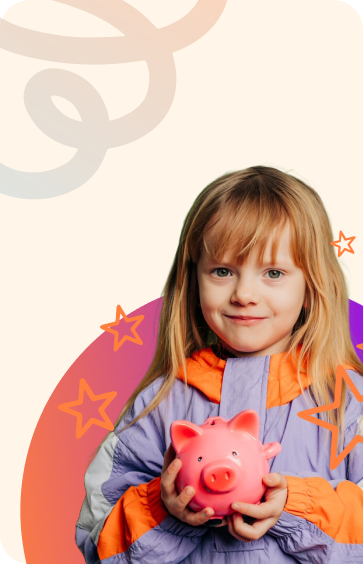
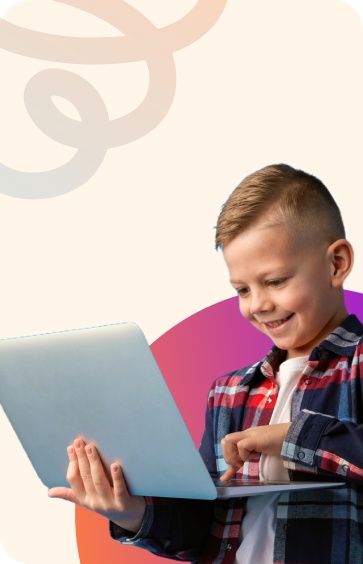
Added few changes

diff --git a/src/components/home-page/HeroSection.js b/src/components/home-page/HeroSection.js
@@ -2,10 +2,8 @@ import Image from "next/image";
 import HeroCreatorImage from "@/assets/images/Hero_Banner.png";
 import HeroCreatorImage1 from "@/assets/images/banner1.png";
 import HeroCreatorImage2 from "@/assets/images/banner2.png";
-import HeroCreatorImage3 from "@/assets/images/banner3.png";
 import HeroCreatorImage1Mob from "@/assets/images/banner1Mob.png";
 import HeroCreatorImage2Mob from "@/assets/images/banner2Mob.png";
-import HeroCreatorImage3Mob from "@/assets/images/banner3Mob.png";
 import HeroCreatorImageMob from "@/assets/images/Hero_Banner_mob.png";
 import HeroCalenderImage from "@/assets/images/calender_frame.png";
 import HeroCurriculumImage from "@/assets/images/medal.png";
@@ -15,8 +13,8 @@ import Calender from "@/assets/images/Calendar-3.png";
 import { useEffect, useState } from "react";
 
 export default function HeroSection() {
-  const desktopImages = [HeroCreatorImage, HeroCreatorImage1, HeroCreatorImage2, HeroCreatorImage3]; // add more if needed
-  const mobileImages = [HeroCreatorImageMob, HeroCreatorImage1Mob, HeroCreatorImage2Mob, HeroCreatorImage3Mob];
+  const desktopImages = [HeroCreatorImage1, HeroCreatorImage, HeroCreatorImage2]; // add more if needed
+  const mobileImages = [HeroCreatorImage1Mob, HeroCreatorImageMob, HeroCreatorImage2Mob];
 
   const [currentIndex, setCurrentIndex] = useState(0);
 
@@ -37,13 +35,16 @@ export default function HeroSection() {
               CREATORS
               <br />
               FOR Life
-              <div className="md:text-[32px] text-[20px] font-medium leading-[30px] mt-4 text-center md:text-left">
-                {/* Help your child unlock their{" "}
+              <div className="md:text-[32px] text-[20px] sm:hidden font-medium leading-[30px] mt-4 text-center md:text-left">
+                Help your child unlock their{" "}
                 <span className="hidden md:inline">
                   <br />
                 </span>
-                potential. */}
-                <Image width={300} height={150}  src={BannerText} alt="banner" />
+                potential.
+                
+              </div>
+              <div className="md:text-[32px] text-[20px] font-medium leading-[30px] mt-4 text-center md:text-left">
+                <Image width={300} height={150} className="hidden sm:block"  src={BannerText} alt="banner" />
               </div>
             </div>
             <Image
